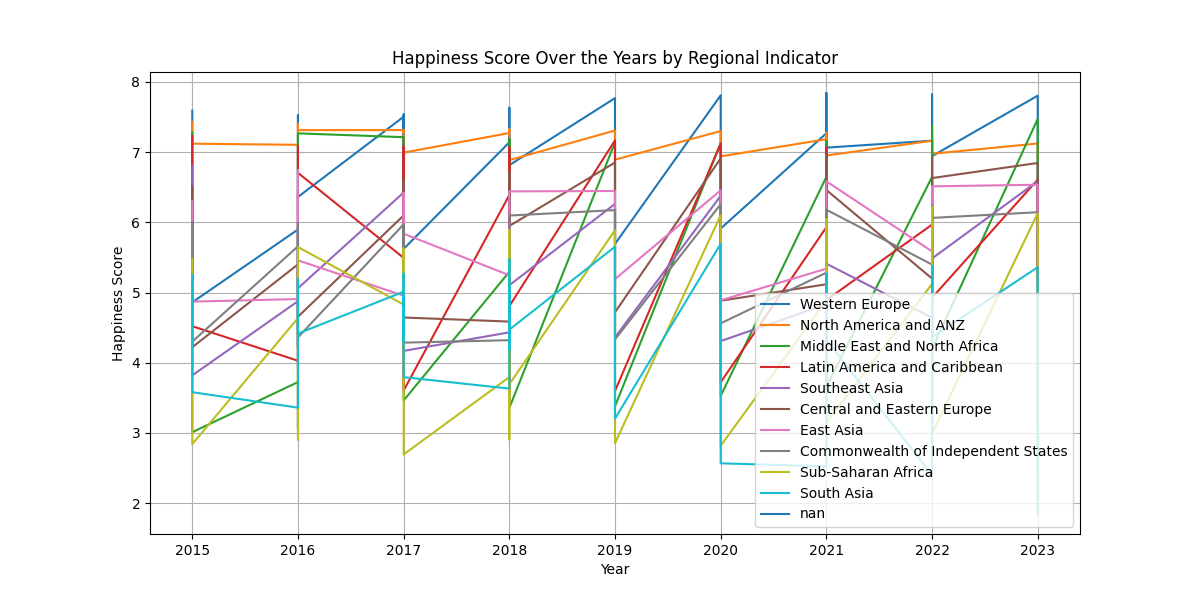
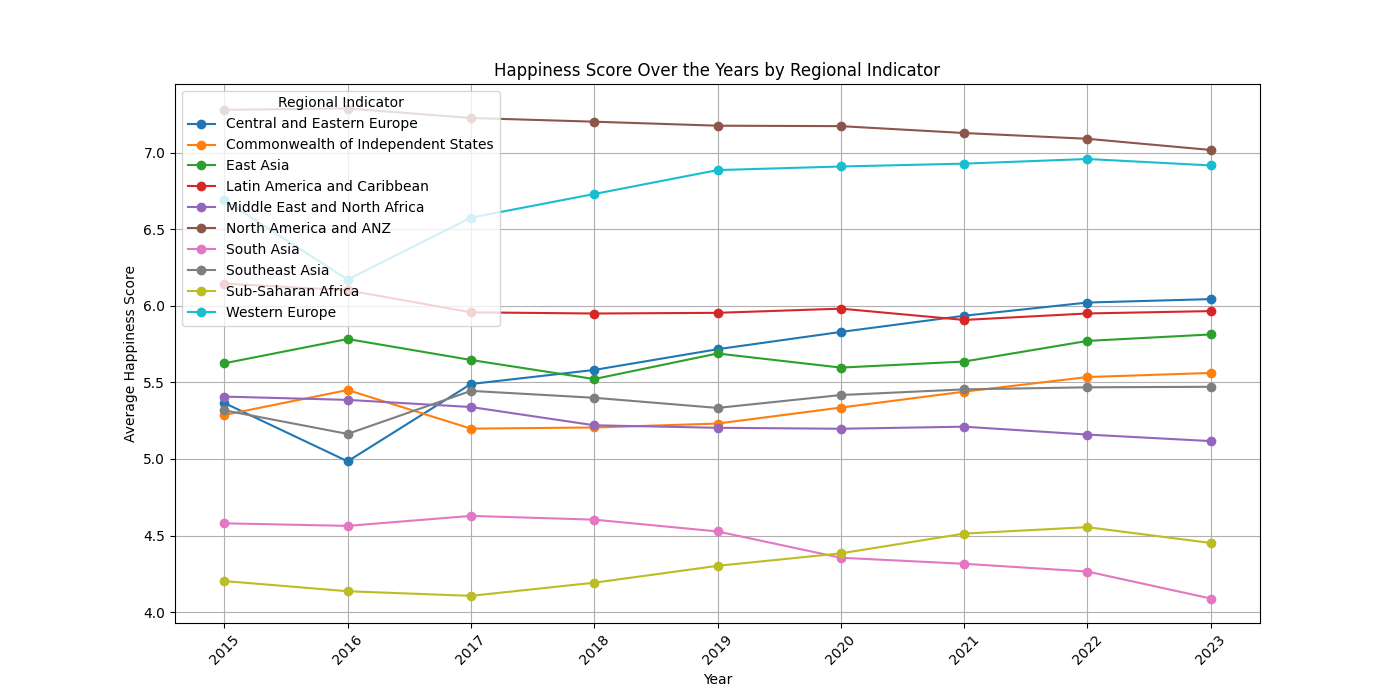
Fixed assignments_07 reviewed

Changed region(s): [[0.0925, 0.09, 0.8942, 0.99], [0.1542, 0.81, 0.2158, 0.84]]

diff --git a/assignments_07/project_07.py b/assignments_07/project_07.py
@@ -225,7 +225,7 @@ def run_guided_queries():
         "Load the happiness data and tell me its shape and column names.",
         "Summarize the Happiness score column.",
         "What is the correlation between GDP per capita and Happiness score?",
-        "Show me the top 5 countries ranked by Happiness score in 2020."
+        "Show me the top 5 countries ranked by Happiness score in 2020.",
         f"Plot Happiness score over the years as a line chart, with one line per Regional indicator. Save the plot to {OUTPUT_DIR / 'happiness_by_region.png'}.",
     ]
 
@@ -243,7 +243,7 @@ def run_guided_queries():
 
 
 def run_my_queries():
-    my_query_1 = "Which region had the highest average happiness_score across all years? Please calculate it."
+    my_query_1 = "Which Regional indicator had the highest average Happiness score across all years? Please calculate it."
     response_1 = agent.run(
         my_query_1,
         reset=False,
@@ -254,13 +254,18 @@ def run_my_queries():
     )
     print("\n--- My Query 1 ---")
     print(response_1)
-    
 
-    my_query_2 = "Show me the top 10 countries by gdp_per_capita in 2020."
-    response_2 = agent.run(my_query_2, reset=False)
+    my_query_2 = "Show me the top 10 countries by GDP per capita in 2020."
+    response_2 = agent.run(
+        my_query_2,
+        reset=False,
+        additional_args={
+            "DATA_PATH": DATA_PATH,
+            "OUTPUT_DIR": OUTPUT_DIR,
+        }
+    )
     print("\n--- My Query 2 ---")
     print(response_2)
-    
 
 if __name__ == "__main__":
     print("Starting project_07.py...")

diff --git a/assignments_07/warmup_07.py b/assignments_07/warmup_07.py
@@ -187,21 +187,20 @@ def run_agent(user_prompt: str) -> str:
 
     client = OpenAI()
 
-    SYSTEM_PROMPT = """You are a simple assistant that can tell the current time.
-                     Use the tool get_current_time whenever a user asks about the time."""
-    SYSTEM_PROMPT = """You are a simple assistant that can tell the current time
-                     and convert Celsius temperatures to Fahrenheit.
-                     Use the tool get_current_time whenever a user asks about the time.
-                     Use the tool celsius_to_fahrenheit whenever a user asks for a Celsius to Fahrenheit conversion."""
+    SYSTEM_PROMPT = """You are a simple assistant that can tell the current time and convert Celsius temperatures to Fahrenheit.
+                    
+                    Use the tool get_current_time whenever a user asks about the time.
+                    Use the tool celsius_to_fahrenheit whenever a user asks for a Celsius to Fahrenheit conversion."""
     
-    tools = [get_current_time_schema]
-    tools = [celsius_to_fahrenheit_schema]
+    tools = [
+        get_current_time_schema,
+        celsius_to_fahrenheit_schema
+    ]
 
     messages = [
         {'role': 'system', 'content': SYSTEM_PROMPT},
         {'role': 'user', 'content': user_prompt},
     ]
-
    
     first_response = client.chat.completions.create(
         model='gpt-4.1-mini',
